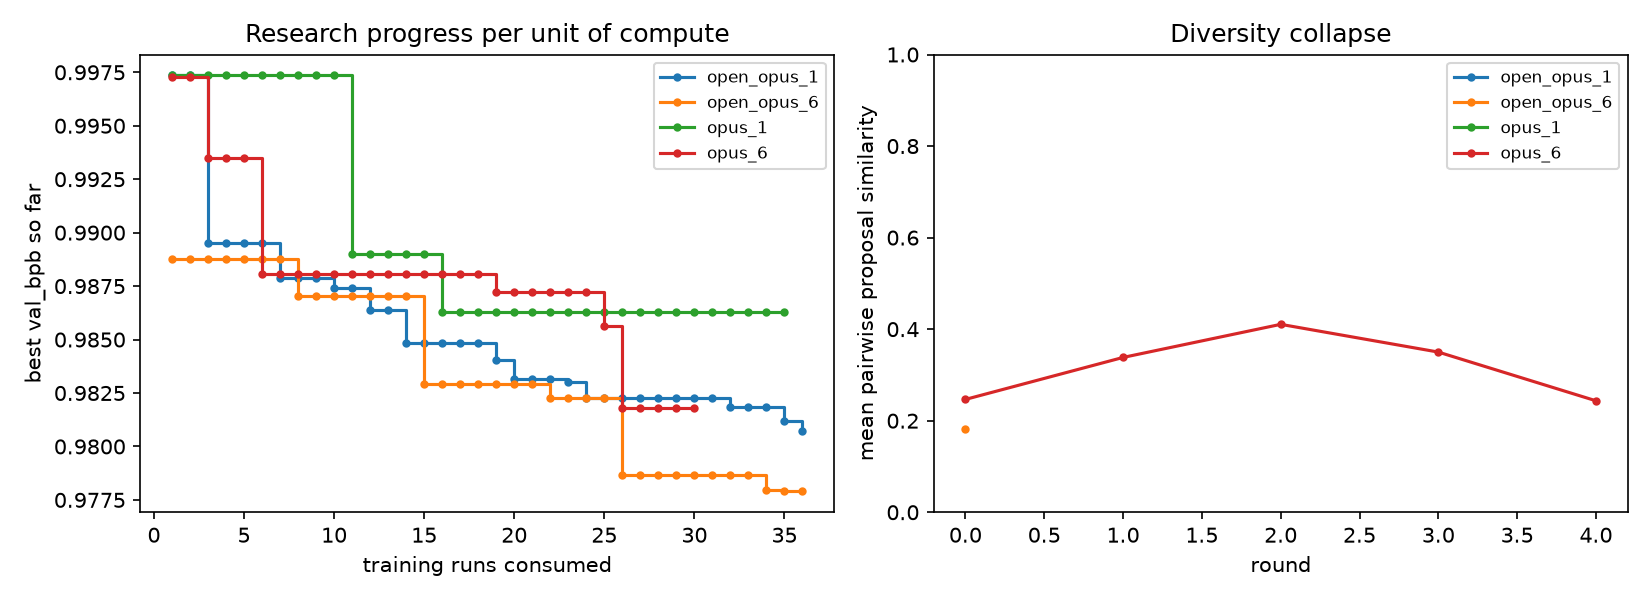
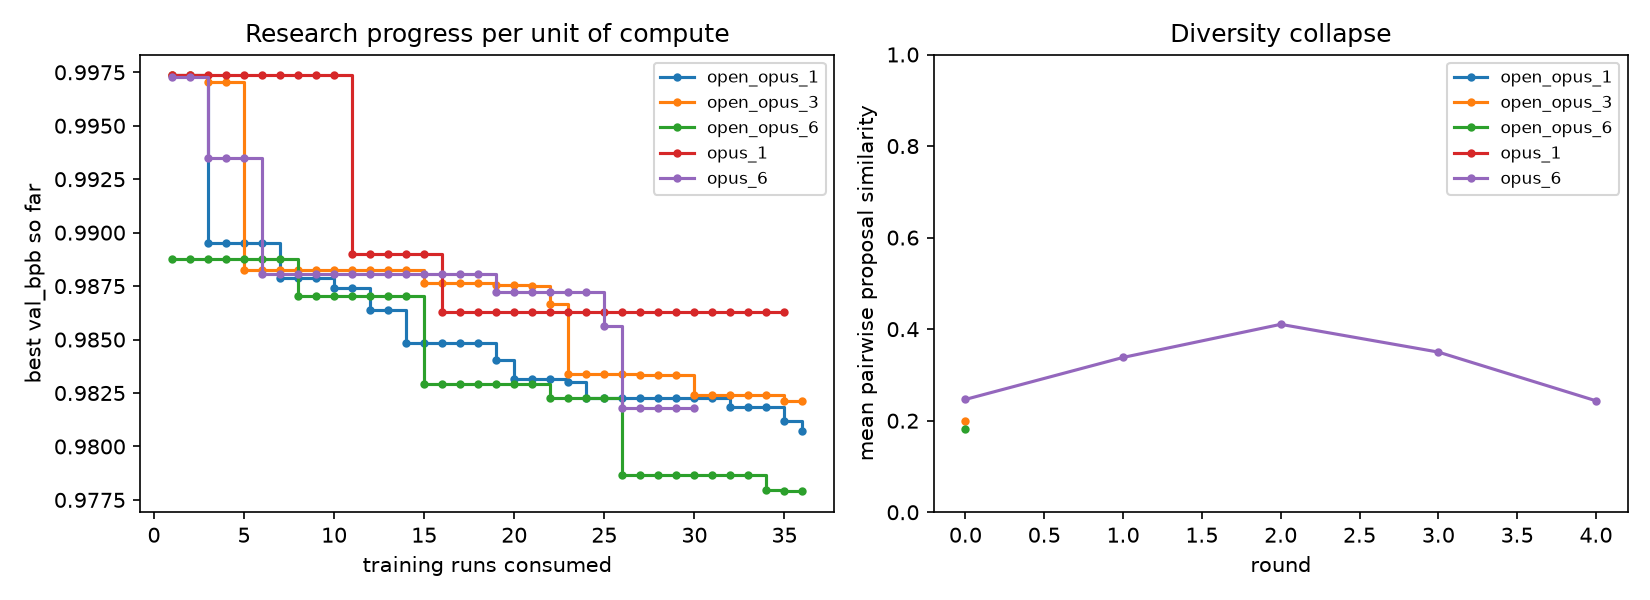
Analysis outputs refreshed (five cells)

diff --git a/analysis_out/summary.md b/analysis_out/summary.md
@@ -1,6 +1,7 @@
-# Results so far (2026-09-22 06:33)
+# Results so far (2026-09-22 08:51)
 
 - open_opus_1: OK — all invariants hold for results/open_opus_1
+- open_opus_3: OK — all invariants hold for results/open_opus_3
 - open_opus_6: OK — all invariants hold for results/open_opus_6
 - opus_1: OK — all invariants hold for results/opus_1
 - opus_6: OK — all invariants hold for results/opus_6
@@ -9,6 +10,7 @@
 cell           agents  BoN   baseline      final      gain  runs  rounds  crash%  simil.  agent $
 -------------------------------------------------------------------------------------------------
 open_opus_1         1    1   0.997359   0.980742  0.016617    36       1     0.0   0.000     5.48
+open_opus_3         3    1   0.997359   0.982130  0.015229    36       1     2.8   0.199    18.99
 open_opus_6         6    1   0.997333   0.977896  0.019437    36       1     0.0   0.183    35.93
 opus_1              1    5   0.997359   0.986277  0.011082    33       7     2.9   0.000    62.20
 opus_6              6    1   0.997333   0.981817  0.015516    29       5     0.0   0.318   291.43
